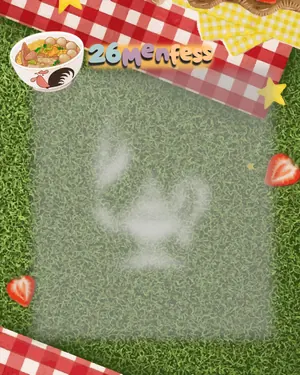
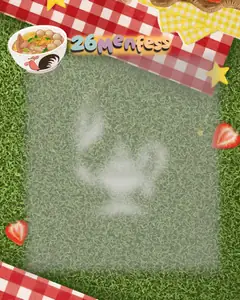
perf(menfess): template piknik 3 tingkat (penuh 178KB, kecil 75KB, thumb 16KB); preview memakai versi kecil

diff --git a/src/lib/menfess/renderCard.js b/src/lib/menfess/renderCard.js
@@ -9,7 +9,7 @@
 //   renderCardBlob(opts)                             → Promise<Blob>
 //   cardFilename(id, design)                         → string
 
-import { CARD, safeAreaPx, TEMPLATE_PATH, FALLBACK_GRADIENT, CARD_TEXT_COLOR } from './templateConfig';
+import { CARD, safeAreaPx, TEMPLATE_PATH, templateSrc, FALLBACK_GRADIENT, CARD_TEXT_COLOR } from './templateConfig';
 import { CATEGORIES } from './rules';
 
 // ─── Utility ─────────────────────────────────────────────────────────────────
@@ -113,7 +113,7 @@ export async function drawCard(canvas, opts, scale = 1) {
   const ctx = canvas.getContext('2d');
 
   // 1. Latar: SVG template atau fallback gradient
-  const tmpl = await loadImage(TEMPLATE_PATH[design] || TEMPLATE_PATH.pink);
+  const tmpl = await loadImage(templateSrc(design, scale));
   if (tmpl) {
     ctx.drawImage(tmpl, 0, 0, W, H);
   } else {

diff --git a/src/lib/menfess/templateConfig.js b/src/lib/menfess/templateConfig.js
@@ -54,6 +54,17 @@ export const TEMPLATE_PATH = {
   picnic: '/26menfess/templates/picnic.webp', // hasil render ringan (aslinya SVG 396 MB)
 };
 
+/** Versi kecil (600×750) untuk preview/thumbnail; versi penuh hanya dimuat saat unduh. */
+export const TEMPLATE_PATH_SMALL = {
+  picnic: '/26menfess/templates/picnic-s.webp',
+};
+
+/** Pilih berkas template sesuai skala render (hemat bandwidth di HP). */
+export function templateSrc(design, scale = 1) {
+  if (scale <= 0.5 && TEMPLATE_PATH_SMALL[design]) return TEMPLATE_PATH_SMALL[design];
+  return TEMPLATE_PATH[design] || TEMPLATE_PATH.pink;
+}
+
 /** Thumbnail kecil untuk picker (hemat bandwidth). */
 export const TEMPLATE_THUMB = {
   picnic: '/26menfess/templates/picnic-thumb.webp',
